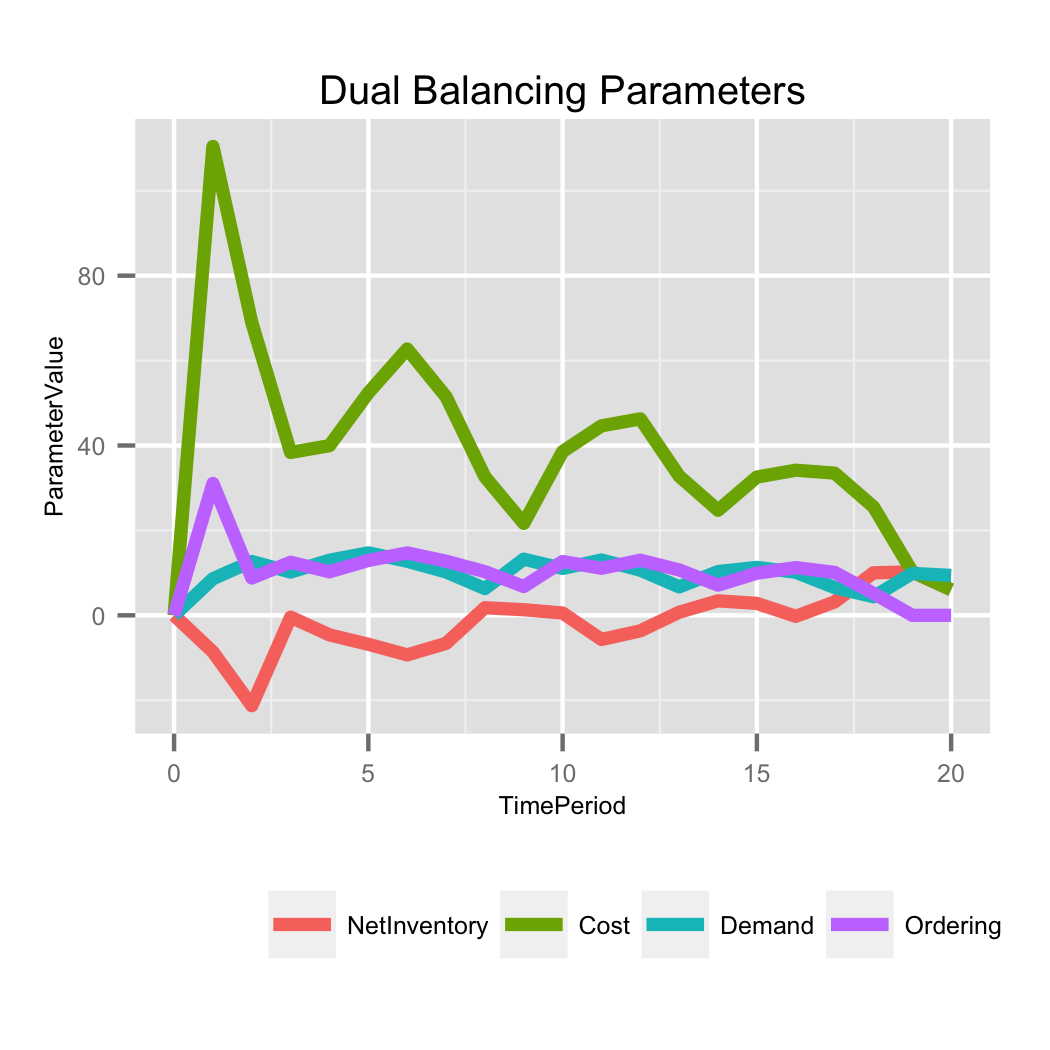
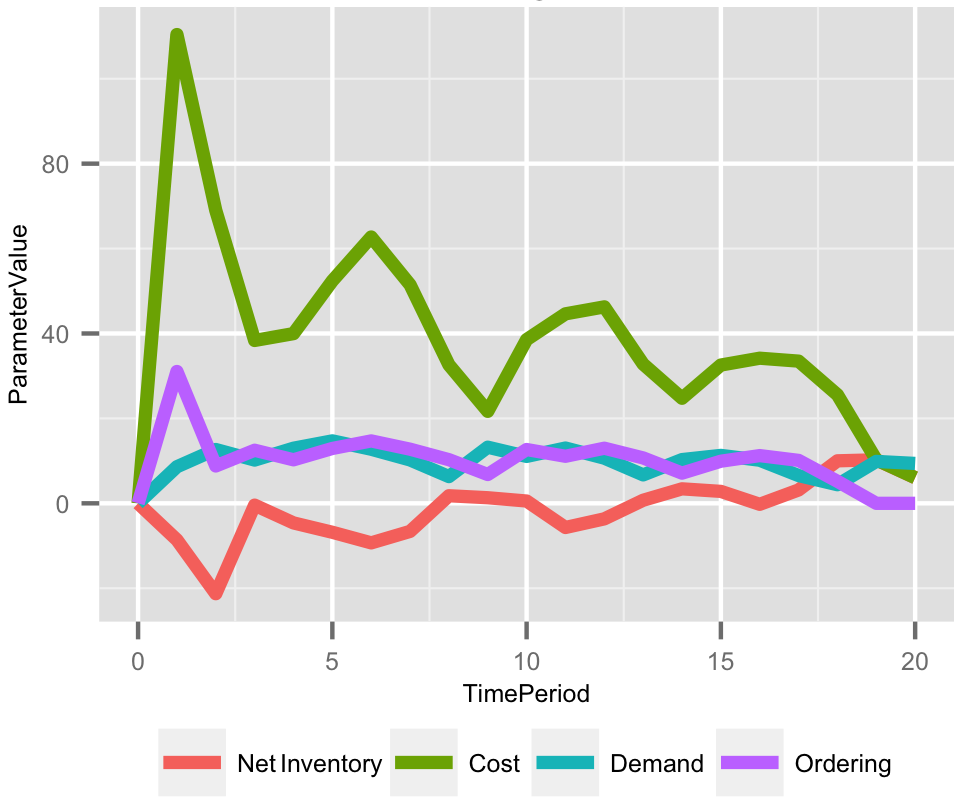
Changes to figures and captions in document. Formatting fixes.

diff --git a/write_up.tex b/write_up.tex
@@ -23,7 +23,6 @@
 \usepackage{stackengine}
 \usepackage{mathtools}
 \usepackage{graphicx}
-
 \renewcommand\useanchorwidth{T}
 \usepackage{xcolor}
 \def\theyearwidth{1.5pt}
@@ -78,6 +77,7 @@
 \fancyfoot{} % Blank out the default footer
 \fancyhead[C]{Approximation Algorithms for Stochastic Inventory Control Models $\bullet$ \ddmmyyyydate\today } % Custom header text
 \fancyfoot[RO,LE]{\thepage} % Custom footer text
+
 
 %----------------------------------------------------------------------------------------
 %	TITLE SECTION
@@ -235,6 +235,7 @@ These algorithms are important in industries where the demand environment is hig
 %\end{figure}
 
 \begin{center}
+  \captionof{figure}{Software Design Diagram}
   \includegraphics[width=3.0in]{software_diagram.png}
 \end{center}
 Our project aim is to implement the Dual Balancing Algorithm and test its performance for some major common demand distributions in this area. As in Fig. (?????), we divide our coding into several major part. The Parameter Data class save all the parameters for the problem, while its child class Policy contains all the informations for the algorithm, including, demand distribution type, distribution parameter, demand, ordering and cost for all time periods, and so on. The class Sample is in charge of organizing all functions, classes and collecting datas.\\
@@ -256,55 +257,69 @@ In following simulations:
             4. $D_t- (D_{t-1} + D_{t-2} + D_{t-3})/3 = N(5,1.581)$ with $D_0=30$.
 \end{compactitem}
 \subsection{Single sample path behavior}
+\begin{center}
+  \captionof{figure}{Dual Balancing Parameters}
   \includegraphics[width=2.5in]{figures/DualBalancingParameters.png}
+\end{center}
 
 We pick $T=20,L=2,D_t=N(20,2,24)$ i.i.d. and compute using Dual Balancing. In the Fig. (???), we only show the result of one sample path. As you can see in Fig. (???), since the initial net inventory is 0 and $L=2$, the demand is going to accumulate and induce a nonzero holding cost. However, due to a large amount of ordering, the cost reduced a lot when the first ordering arrived at $t=L=2$. After that, the ordering stabilized and oscillate according to the change of $d_t$. The net inventory\footnote{Net inventory is computed by averaging absolute value of net inventory in each sample. Small net inventory indicates good police.} is also stabilize and oscillate around 0, this means the holding cost and backlogging cost are close to zero. Most of the cost are due to ordering and the cost curve is almost proportional to demand one.\\
 Since, the demand include randomness, we will never be able to control our net inventory exactly at zero. Thus, Fig. (???) actually imply that the solution of Dual Balancing could be very close to the optimal solution.
 \subsection{Average Behavior}
 
 \subsubsection{Stabilize Speed}
+\begin{center}
+  \captionof{figure}{\small Stabilization Across Different Initial Values of Net Inventory and Lead Time}
+  \includegraphics[width=2.8in]{figures/NetInventoryLeadTime.png}
+\end{center}
 
-  \includegraphics[width=1.5in]{figures/LeadTime.png}
-  \includegraphics[width=1.5in]{figures/NetInventory.png}
-
-For Fig(???), we fix $T=30, D_t=??$ and using Dual Balancing algorithm. In the left figure, we choose initial inventory $x_0 = 0$ and plot net inventory for different leading times. It is clear that larger leading time leads to a higher volume of net inventory. However, no matter how larger our leading that is, at period $L+1$, i.e. the time we receive our period 1 order, the net inventory drop down a low level immediately.\\
+For Fig. \ref{figure:blah}, we fix $T=30, D_t=??$ and using Dual Balancing algorithm. In the left figure, we choose initial inventory $x_0 = 0$ and plot net inventory for different leading times. It is clear that larger leading time leads to a higher volume of net inventory. However, no matter how larger our leading that is, at period $L+1$, i.e. the time we receive our period 1 order, the net inventory drop down a low level immediately.\\
 In the right figure, a fix $L = 5$ and change initial net inventory. If initial net inventory $x > 0$, it will support demands for some periods, and after consuming all initial net inventory, the absolute net inventory climbs up until period $L+1$, then we have a stable net inventory closed to 0.\\
 
 \subsubsection{Long Term Cost/Demand Ratio}
-
-  \includegraphics[width=2.5in]{figures/TotalCostToOrderRatio.png}
+\begin{center}
+  \captionof{figure}{Total Cost to Order Ratio: Independent Normal vs. Incrementing Normal Distribution}
+  \includegraphics[width=2.8in]{figures/TotalCostToOrderRatio.png}
+\end{center}
 
 \subsection{Comparison to Myopic}
 \subsubsection{General Performance}
 
-  \includegraphics[width=1.5in]{figures/AccumulativeDemandAndCost_Normal.png}
-  \includegraphics[width=1.5in]{figures/AccumulativeDemandAndCost_Binomial.png}
-  \includegraphics[width=1.5in]{figures/AccumulativeDemandAndCost_Brownian.png}
-  \includegraphics[width=1.5in]{figures/AccumulativeDemandAndCost_Markov.png}
-  \includegraphics[width=2.5in]{figures/key.png}
+\begin{center}
+  \captionof{figure}{\scriptsize Accumulative Demand and Accumulative Cost}
+  \includegraphics[width=2.8in]{figures/AccumulativeDemandAndCost.png}
+  \includegraphics[width=2.8in]{figures/key.png}
+\end{center}
 
 In figure(???), we notice that for all four kinds for demand distributions, the accumulative demands for both algorithm overlap on the green line and accumulative costs overlap on the purple line. This indicates that for all four kinds for demand distributions, under same demands distribution, the performance, measured by accumulative cost, of Dual Balancing algorithm and Myopic algorithm are almost exactly the same.\\
 In 2006 Zipkin's paper\cite{CLAcha1}, he shows that, in many cases, myopic algorithm works extremely well. Thus, fig(???) indicates a good behavior of Dual Balancing algorithm.
 
-  \includegraphics[width=1.5in]{figures/DemandAndNetInventory_Binomial.png}
-  \includegraphics[width=1.5in]{figures/DemandAndNetInventory_Normal.png}
-  \includegraphics[width=1.5in]{figures/DemandAndNetInventory_Brownian.png}
-  \includegraphics[width=1.5in]{figures/DemandAndNetInventory_Markov.png}
-  \includegraphics[width=2.5in]{figures/key2.png}
+%\begin{center}
+%  \captionof{figure}{}
+%  \includegraphics[width=3in]{figures/DemandAndNetInventory.png}
+%  \includegraphics[width=3in]{figures/key2.png}
+%\end{center}
 
 (as above, only need one)
 
 
  \subsubsection{Bad Example for Myopic} 
-  \includegraphics[width=1.5in]{figures/MyopicBadDemand.png}
-  \includegraphics[width=1.5in]{figures/MyopicBadNetInventory.png}
+ \begin{center}
+  \captionof{figure}{\scriptsize Myopic vs. Dual-Balancing}
+  \includegraphics[width=2.8in]{figures/MyopicBad.png}
+\end{center}
   We consider the a periodic demand distribution: if $t\in \{0,20,40,60,...\}$, $D_t=N(20,?)$, otherwise, $D_t=0$.//
   In fig (???), we simulates two of this periodic demand distribution.\\
   In fig (???), we can see that at critical periods (i.e. $t\in \{0,20,40,60,...\}$), net inventory have a sudden jump for for both algorithms, but after the jump the net inventory produced by applying Dual Balancing algorithm drops down to a much low level than that produced by Myopic police.
-  \includegraphics[width=2.5in]{figures/MyopicBadOrdering.png}
+ \begin{center}
+  \captionof{figure}{\scriptsize Myopic vs. Dual-Balancing: Ordering}
+  \includegraphics[width=2.5in]{figures/MyopicBadOrderingWriteup.png}
+  \end{center}
   Fig(???) shows why Dual Balancing algorithm has a batter performance. Compared with Myopic algorithm, Dual Balancing algorithm is more conservative. Dual Balancing algorithm always orders less than Myopic algorithm on each critical period, which gives a higher expected cost on this critical period, but Dual Balancing algorithm has less leftover after critical period. One the long run, this give a Dual Balancing algorithm a lower average net inventory.
 
-  \includegraphics[width=2.5in]{figures/MyopicBadAccumulativeCost.png}
+ \begin{center}
+  \captionof{figure}{\scriptsize Myopic vs. Dual-Balancing: Accumulative Cost}
+  \includegraphics[width=2.5in]{figures/MyopicBadAccumulativeCostWriteup.png}
+  \end{center}
   Fig(???) shows that Dual Balancing algorithm has a much less accumulative cost.
 %------------------------------------------------
 
